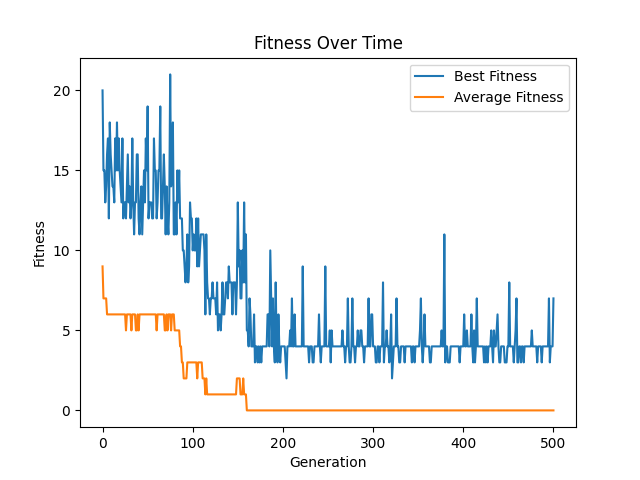
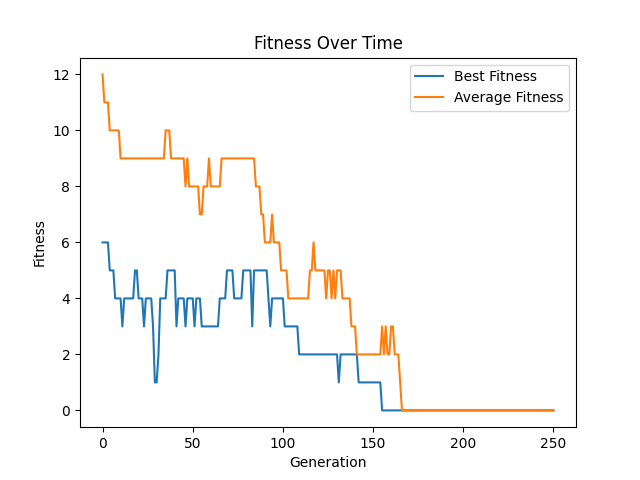
distro subsection

diff --git a/site/topics/genetic-algorithms/n-queens-ga-experiment.rst b/site/topics/genetic-algorithms/n-queens-ga-experiment.rst
@@ -25,15 +25,64 @@ Run Multiple Times and Plot
 
     * See the bitstring genetic algorithm for an example of how this was done
 
-    .. figure:: fitness_over_time_nqueens.png
-        :width: 500 px
-        :align: center
 
-        Learning curve for some run of the :math:`n` queens genetic algorithm. This plot is for a run where
-        :math:`n=14`, the population size was 100, and the number of generations was 500. Since this is a minimization
-        problem, lower fitness values are better.
+.. figure:: fitness_over_time_nqueens.png
+    :width: 500 px
+    :align: center
+
+    Learning curve for some run of the :math:`n` queens genetic algorithm. This plot is for a run where
+    :math:`n=20`, the population size was 100, the number of generations was 250, and a tournament size of 2. Since this
+    is a minimization problem, lower fitness values are better.
 
 
+Creating a Distribution
+-----------------------
+
+* Since genetic algorithms are stochastic processes, one should expect variability between runs
+
+    * Every time the algorithm is run, different results will likely be obtained
+    * This is to be expected given the amount of randomness involved
+
+        * Initial population is created randomly
+        * Selection is done randomly
+        * Genetic operators are applied randomly
+        * Genetic operators apply operations on random parts of the chromosomes
+
+
+* This means it is not possible to run the algorithm once to truly measure its effectiveness
+
+    * Learning curves are really only good for a quick eyeball test of the evolutionary learning process
+
+
+* Instead, a distribution of results should be created along with summary statistics
+
+
+#. Run the algorithm a total of :math:`100` times and save the best fitness result of each run
+
+    * This will create a list of 100 fitness values
+
+
+#. Calculate some simple summary statistics of the :math:`100` runs' results
+
+    * Mean and/or median
+    * Standard deviation and/or interquartile range
+    * Anything else that could be interesting
+
+
+#. Plot the fitness values in a histogram to see the distribution of results
+
+    * `Use matplotlib's hist function <https://matplotlib.org/stable/api/_as_gen/matplotlib.pyplot.hist.html>`_
+
+
+.. figure:: distribution_of_results_nqueens.png
+    :width: 500 px
+    :align: center
+
+    Distribution of the results of 100 runs of the :math:`n` queens genetic algorithm where :math:`n=20`, population
+    size was 100, generations was 250, and a tournament size of 2.
+
+
+#. To make the problem harder, repeat these questions for :math:`n=30`
 
 
 
